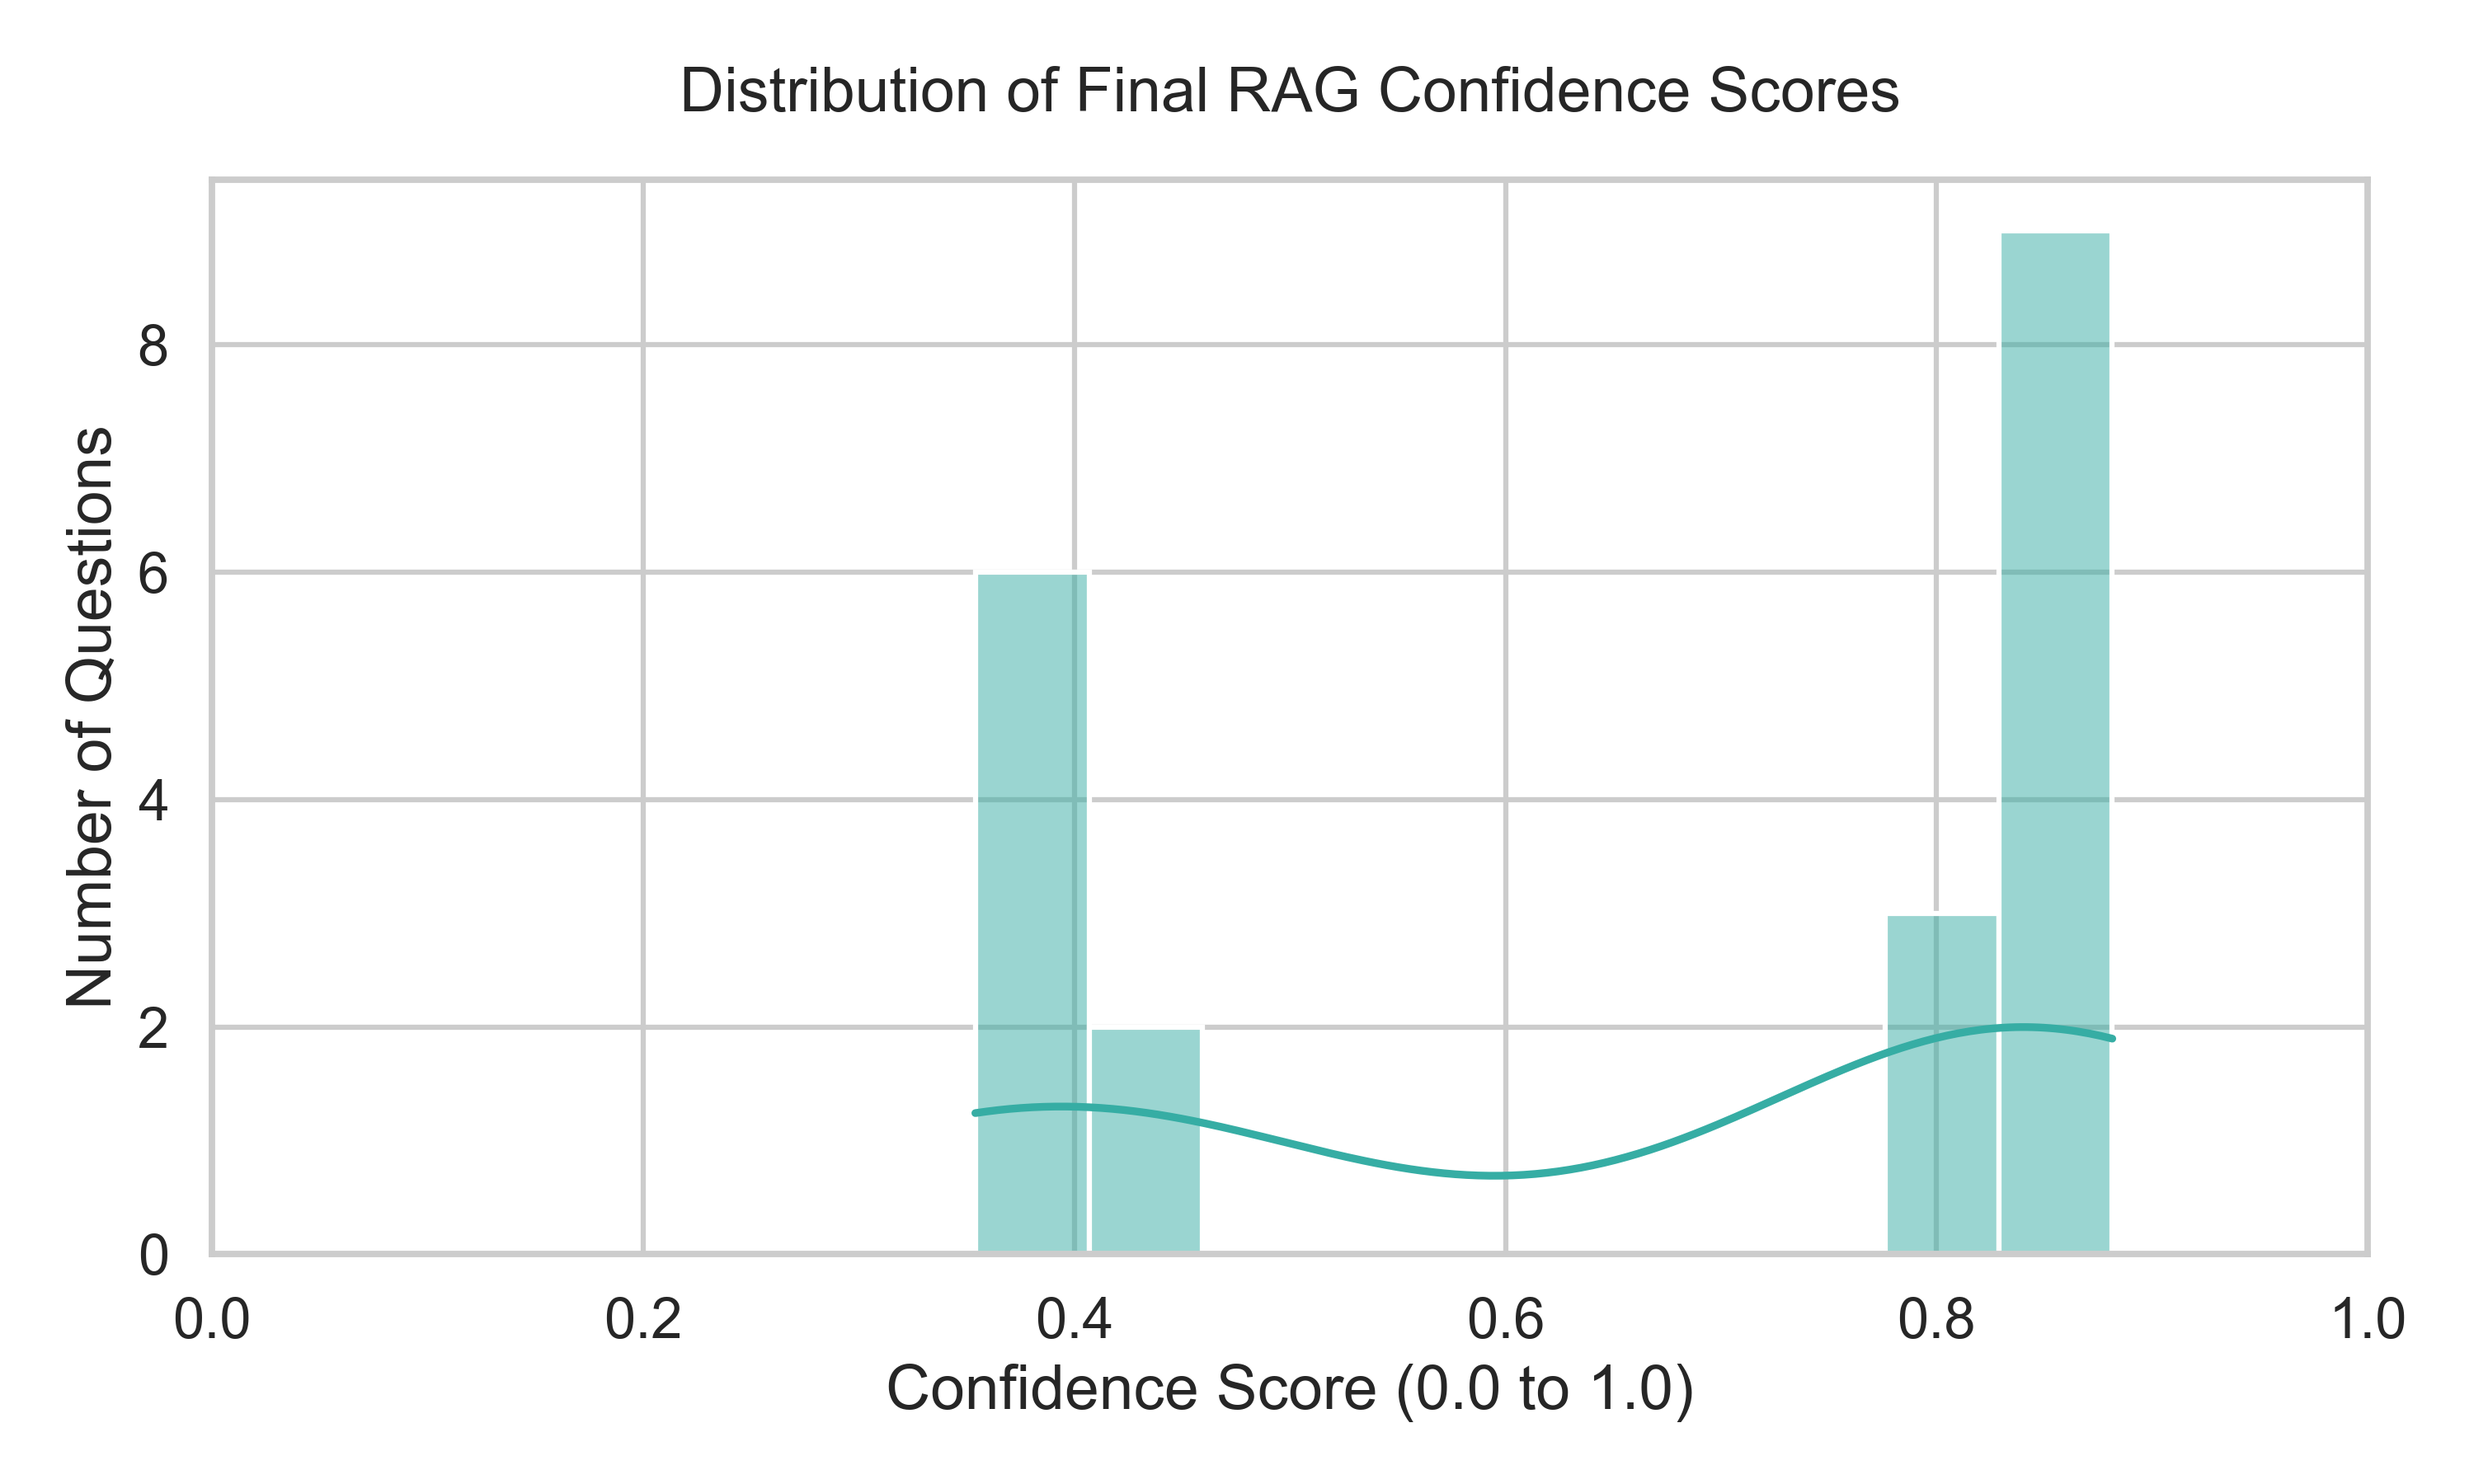
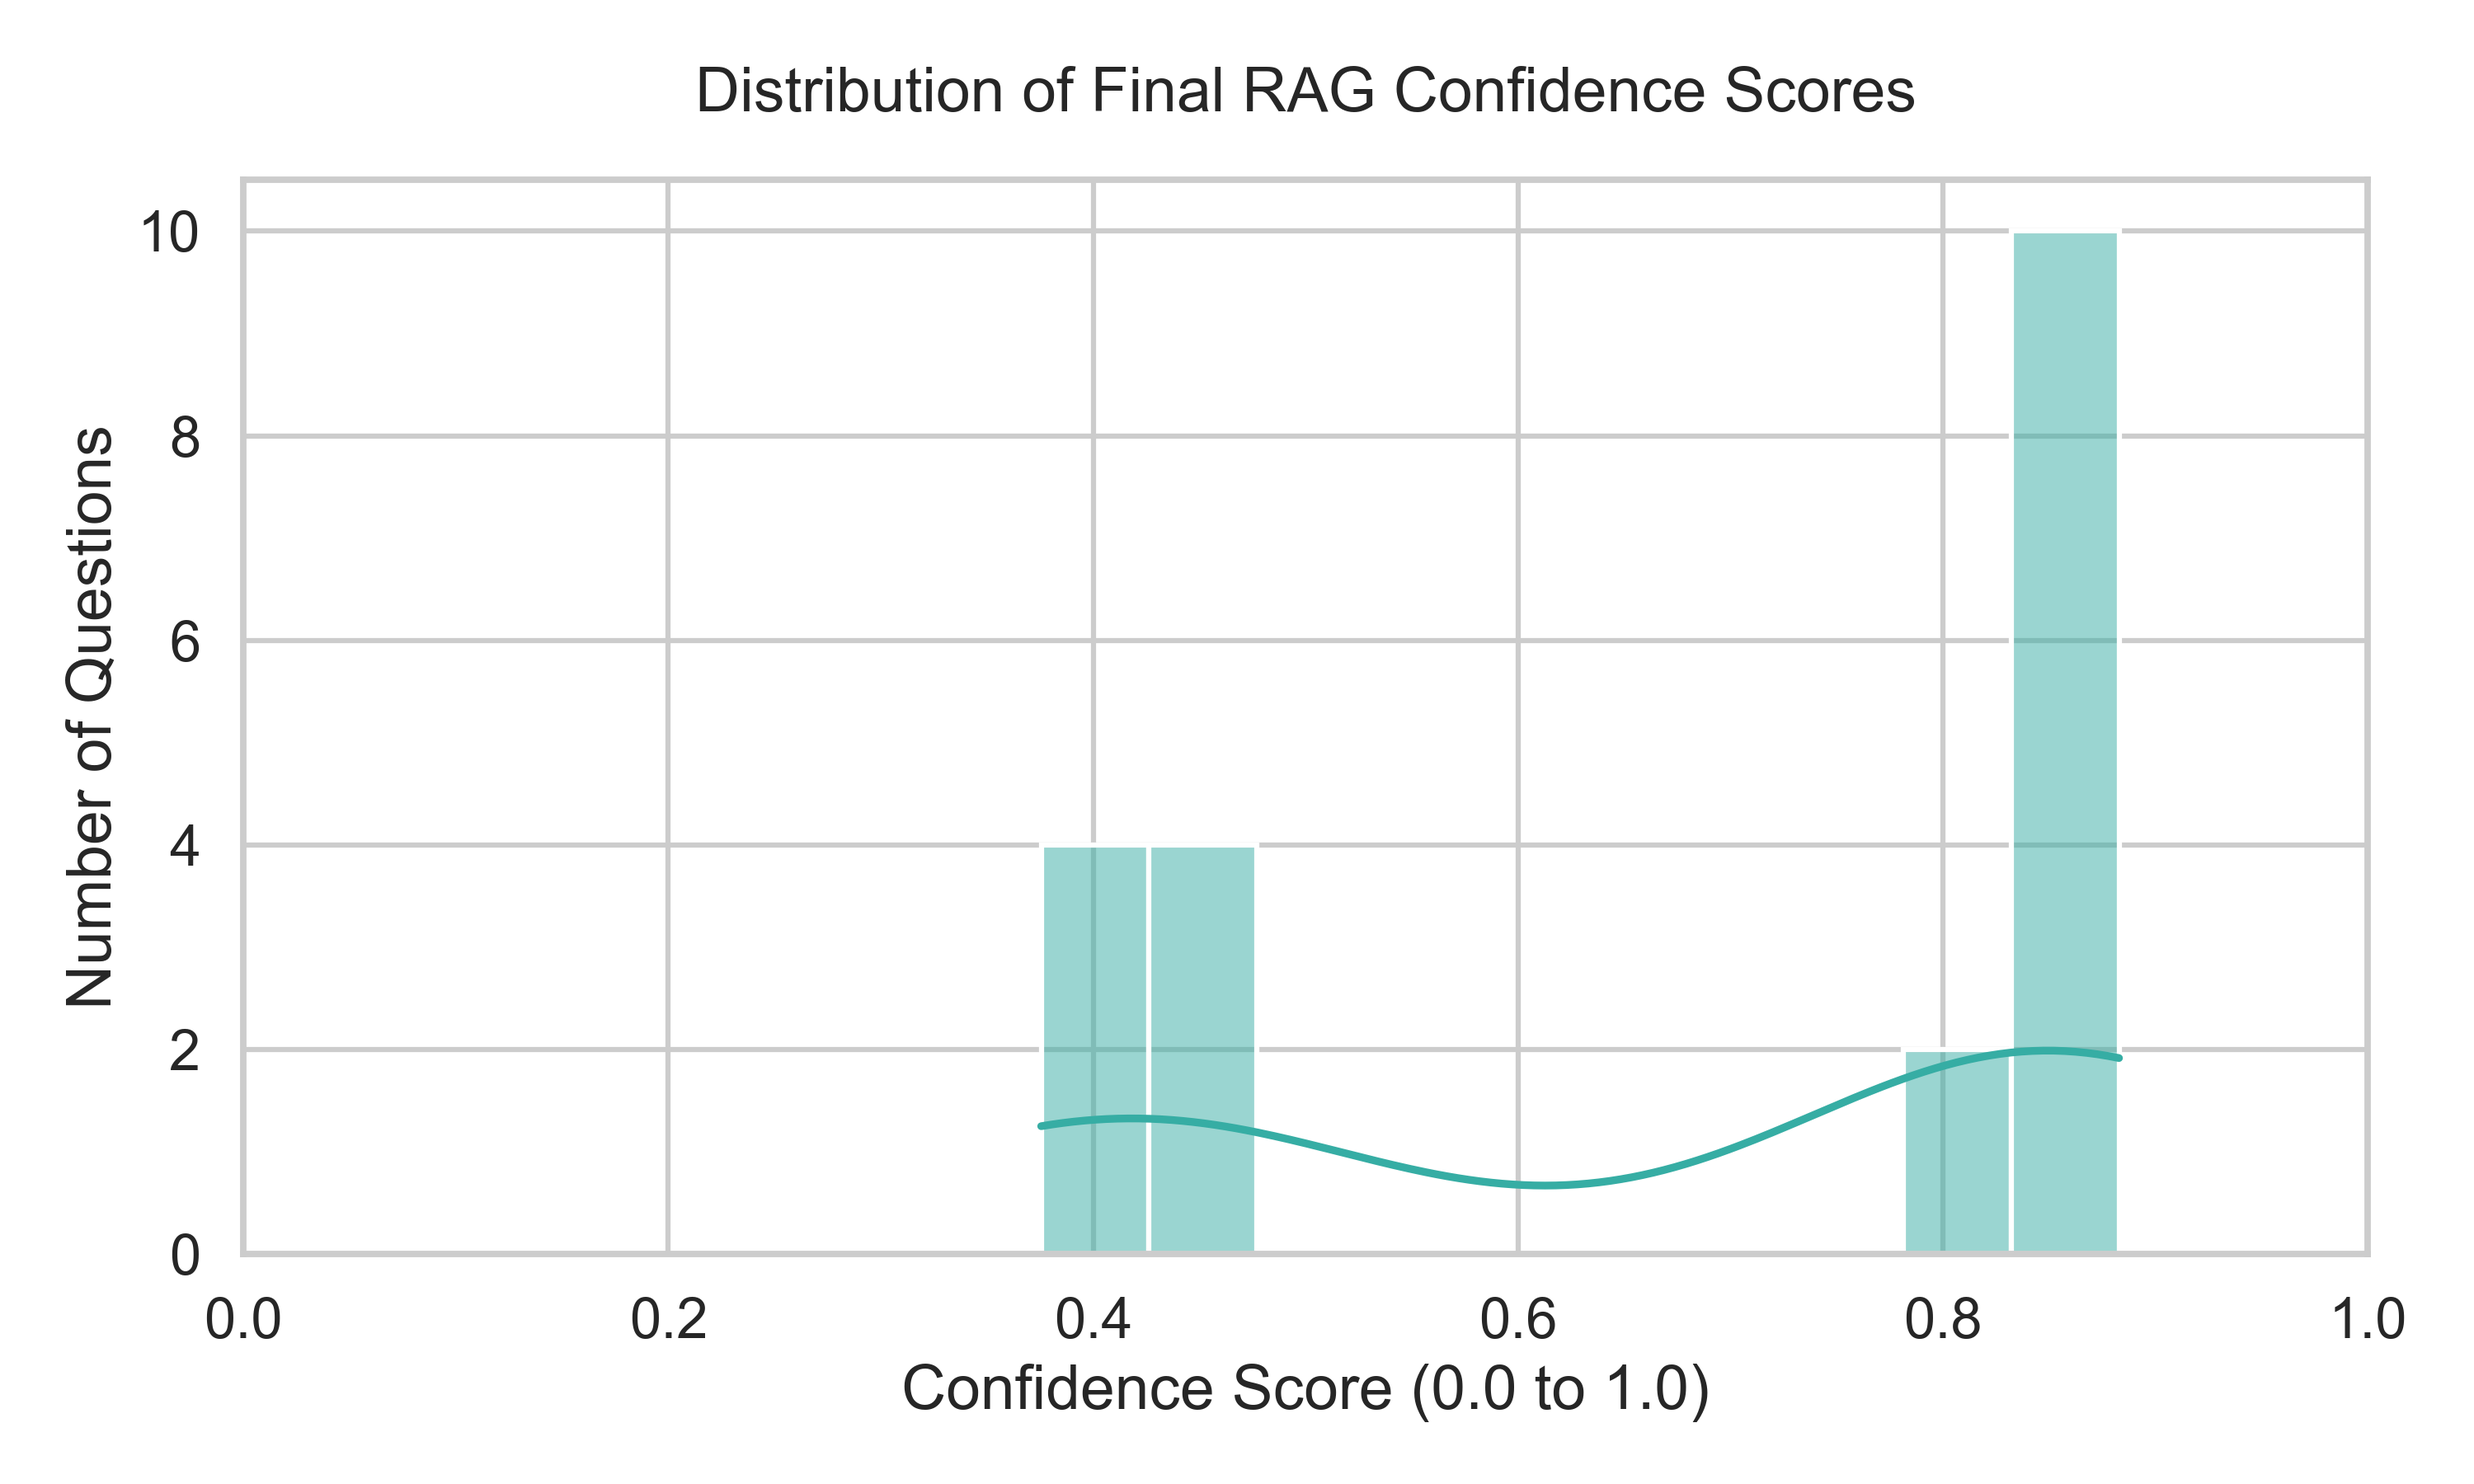
evaluation results

diff --git a/rag/generator.py b/rag/generator.py
@@ -22,19 +22,34 @@ def get_groq_client() -> Groq:
     return _groq_client
 
 
-def call_groq(messages: list[dict], temperature: float = 0.2, max_tokens: int = 512) -> str:
+def call_groq(messages: list[dict], temperature: float = 0.2, max_tokens: int = 512, max_retries: int = 5) -> str:
     """
-    Makes a single Groq chat completion call.
+    Makes a single Groq chat completion call with exponential backoff for rate limits.
     Returns the raw text response from the LLM.
     """
+    import time
     client = get_groq_client()
-    response = client.chat.completions.create(
-        model=GROQ_MODEL,
-        messages=messages,
-        temperature=temperature,
-        max_tokens=max_tokens,
-    )
-    return response.choices[0].message.content.strip()
+    delay = 5.0
+    for attempt in range(max_retries):
+        try:
+            response = client.chat.completions.create(
+                model=GROQ_MODEL,
+                messages=messages,
+                temperature=temperature,
+                max_tokens=max_tokens,
+            )
+            return response.choices[0].message.content.strip()
+        except Exception as e:
+            error_msg = str(e).lower()
+            if "429" in error_msg or "rate limit" in error_msg or "too many requests" in error_msg:
+                if attempt == max_retries - 1:
+                    print(f"[Groq API] Max retries reached. Failing.")
+                    raise e
+                print(f"[Groq API] Rate limit hit. Waiting {delay}s before attempt {attempt+2}/{max_retries}...")
+                time.sleep(delay)
+                delay *= 1.5  # Exponential backoff
+            else:
+                raise e
 
 
 def generate_answer(messages: list[dict]) -> str:

diff --git a/rag/evaluate.py b/rag/evaluate.py
@@ -271,22 +271,22 @@ def generate_graphs(df: pd.DataFrame, non_rejected: pd.DataFrame):
     plt.savefig(os.path.join(GRAPHS_DIR, "5_retrieval_similarity.png"), dpi=300)
     plt.close()
 
-    # 6. Chapter Classification Accuracy (new)
-    plt.figure(figsize=(8, 8))
-    acc_counts = non_rejected["chapter_correct"].value_counts()
-    plt.pie(
-        acc_counts,
-        labels=[f"{'Correct' if bool(k) else 'Wrong'} ({v})" for k, v in acc_counts.items()],
-        autopct="%1.1f%%",
-        colors=["#3498db", "#e67e22"],
-        startangle=90,
-        textprops={"fontsize": 14, "weight": "bold"},
-    )
-    plt.title("Chapter Classification Accuracy (BERT)", pad=20)
-    plt.savefig(os.path.join(GRAPHS_DIR, "6_chapter_accuracy.png"), dpi=300)
-    plt.close()
+    # # 6. Chapter Classification Accuracy (new)
+    # plt.figure(figsize=(8, 8))
+    # acc_counts = non_rejected["chapter_correct"].value_counts()
+    # plt.pie(
+    #     acc_counts,
+    #     labels=[f"{'Correct' if bool(k) else 'Wrong'} ({v})" for k, v in acc_counts.items()],
+    #     autopct="%1.1f%%",
+    #     colors=["#3498db", "#e67e22"],
+    #     startangle=90,
+    #     textprops={"fontsize": 14, "weight": "bold"},
+    # )
+    # plt.title("Chapter Classification Accuracy (BERT)", pad=20)
+    # plt.savefig(os.path.join(GRAPHS_DIR, "6_chapter_accuracy.png"), dpi=300)
+    # plt.close()
 
-    print(f"✅ Generated 6 graphs in {GRAPHS_DIR}")
+    print(f"✅ Generated 5 graphs in {GRAPHS_DIR}")
 
 
 if __name__ == "__main__":

diff --git a/rag/pipeline.py b/rag/pipeline.py
@@ -62,7 +62,7 @@ def run_pipeline(
         print(f"[Pipeline] Auto-filtered to chapter: {chapter_filter}")
 
         # ── Confidence gate: reject if BERT is too uncertain ──
-        if classification["chapter_confidence"] < 0.45:
+        if classification["chapter_confidence"] < 0.30:
             print(f"[Pipeline] ⚠ Low confidence ({classification['chapter_confidence']:.2%}) — rejecting question.")
             return {
                 "question"       : question,
